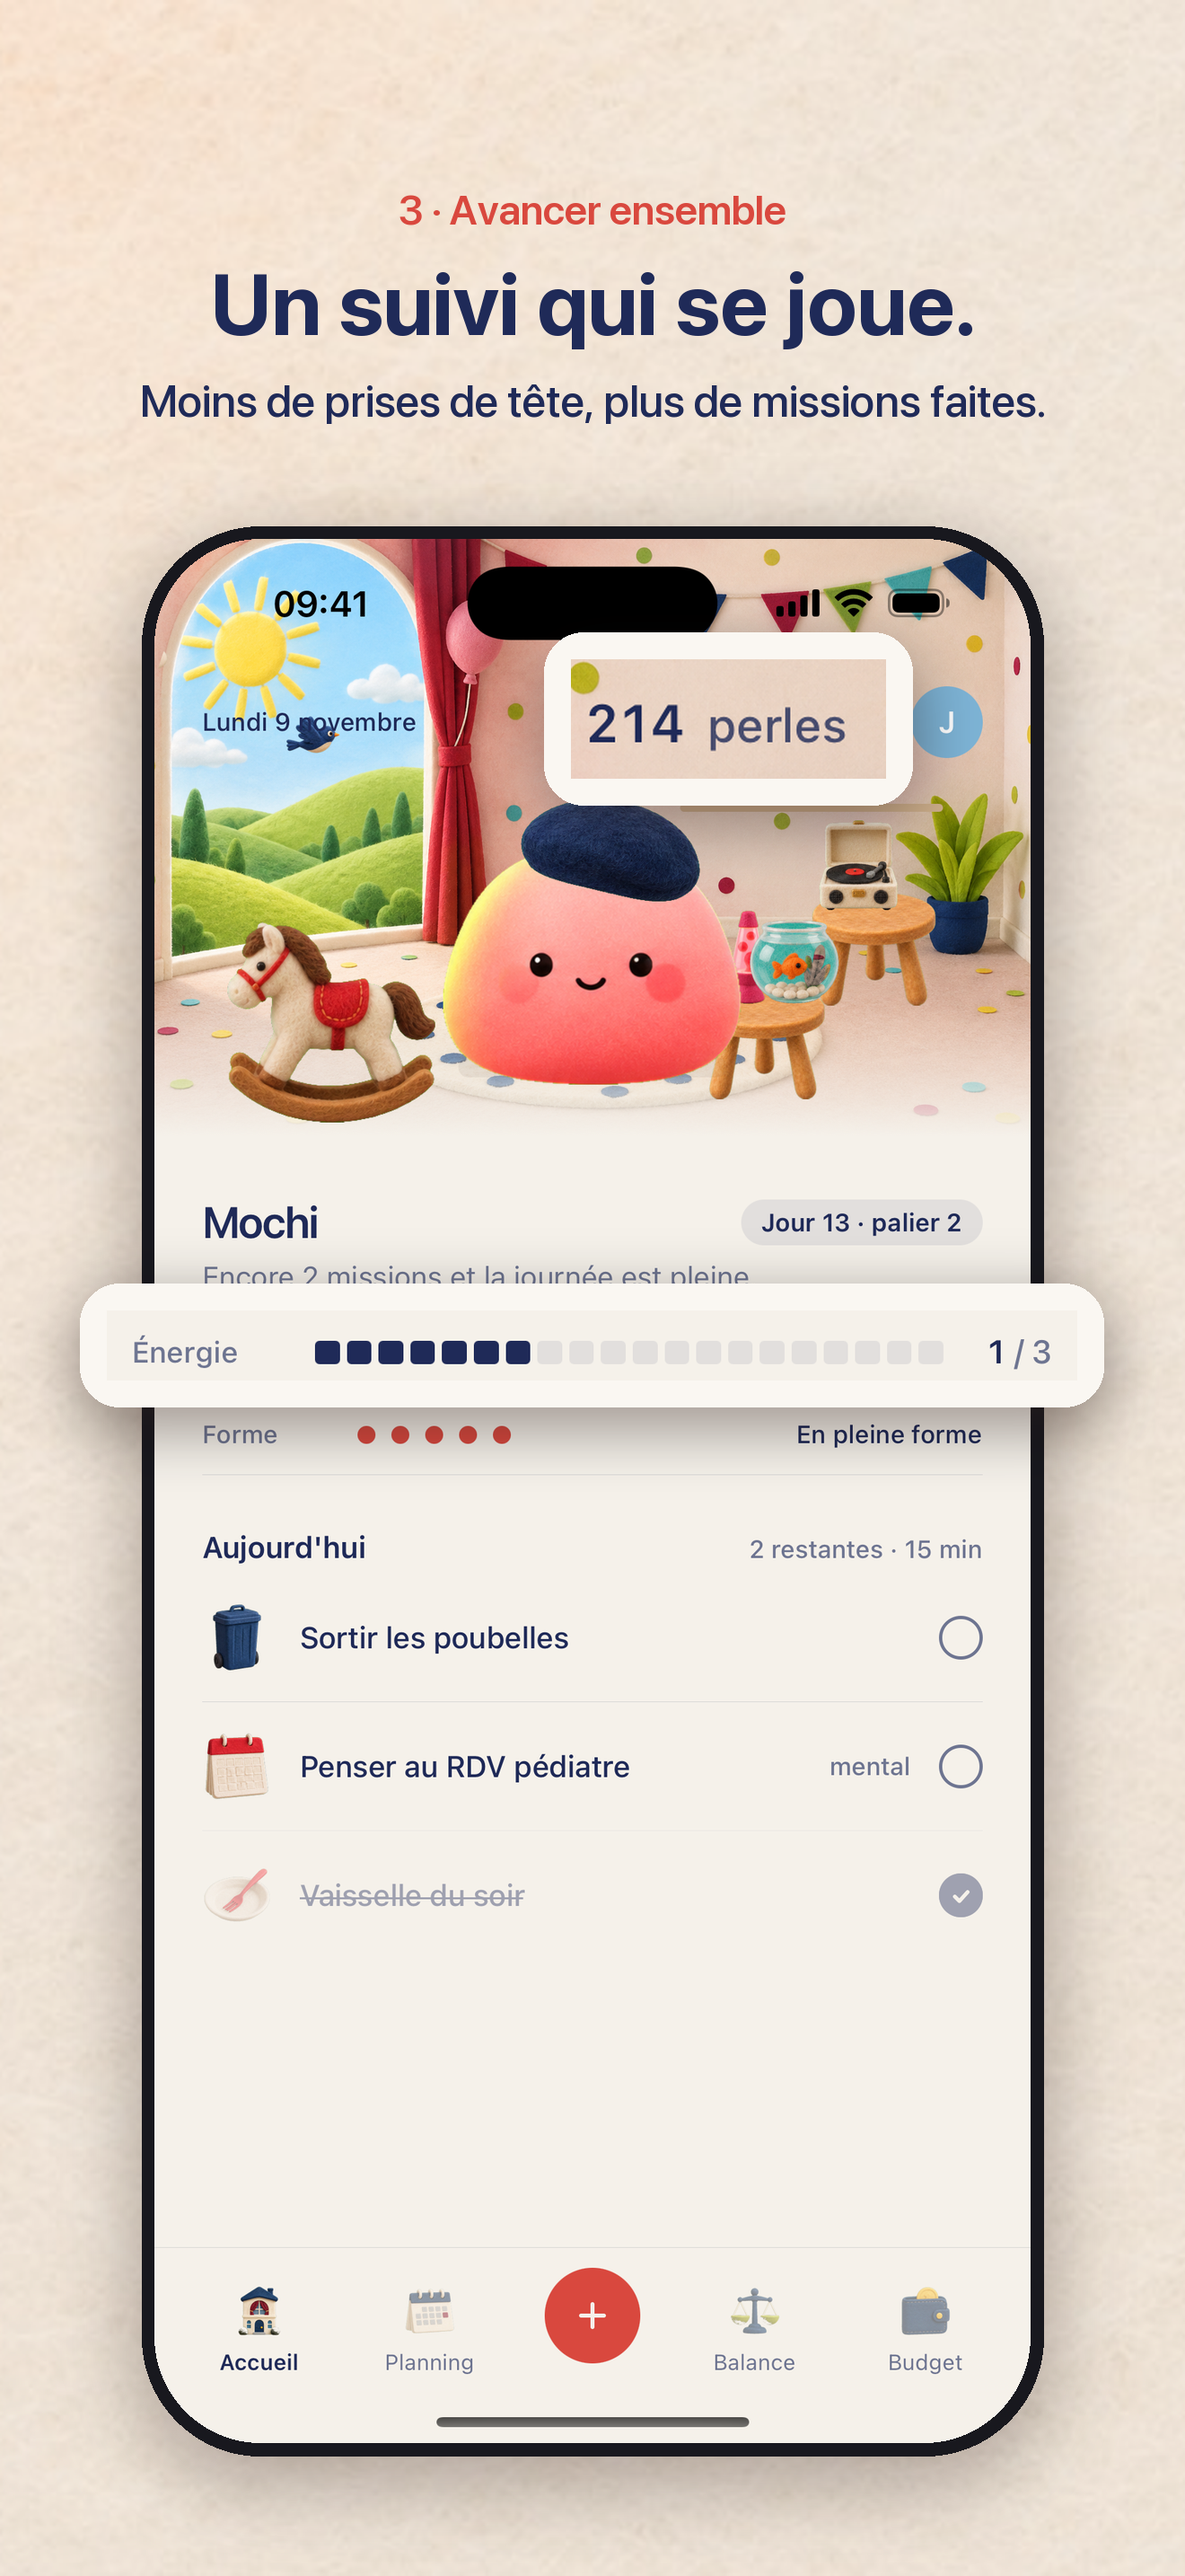
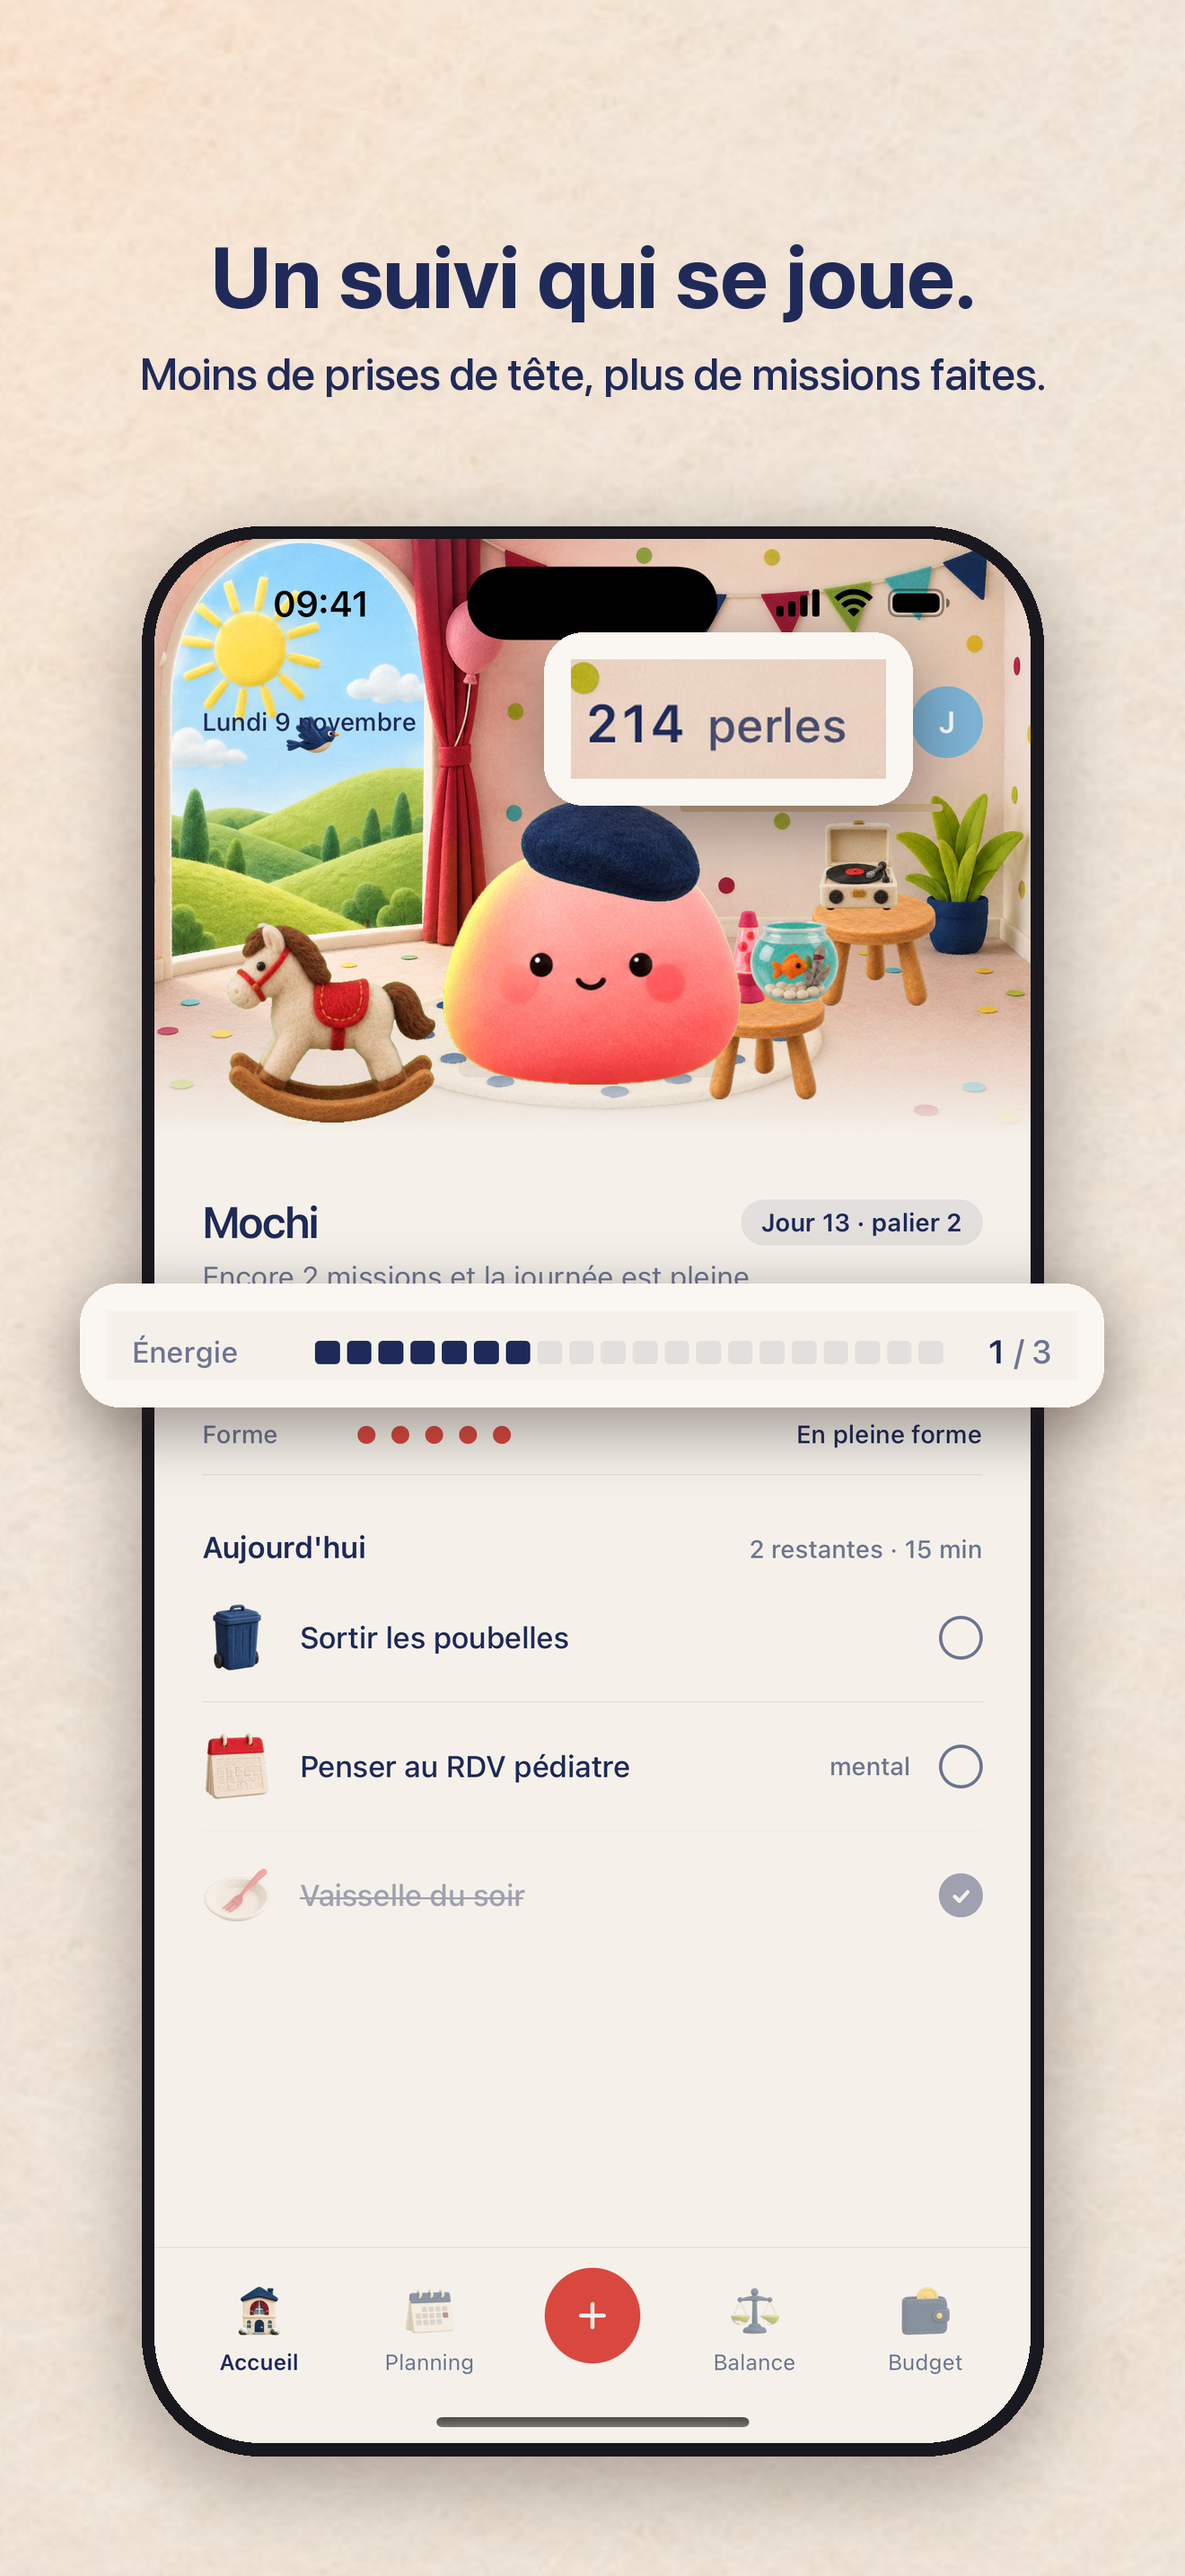
Captures App Store : repères numérotés retirés, les trois promesses restent dans les titres

Changed region(s): [[0.1242, 0.0621, 0.8697, 0.1862]]

diff --git a/scripts/store-ecrans-mockup.py b/scripts/store-ecrans-mockup.py
@@ -25,8 +25,8 @@ def screen(out,title,shot,pops,notif=None,kicker=None,sub=None):
     else:  # les trois piliers : repère numéroté, titre sur une ligne, bénéfice dessous
         if kicker:
             fk=font(46,'Semibold'); w=d.textlength(kicker,font=fk); d.text(((W-w)/2,205),kicker,font=fk,fill=(217,72,62))
-        f=font(TSZ,'Bold'); w=d.textlength(title[0],font=f); d.text(((W-w)/2,280),title[0],font=f,fill=INK)
-        fs=font(50,'Medium'); w=d.textlength(sub,font=fs); d.text(((W-w)/2,415),sub,font=fs,fill=INK+(175,))
+        f=font(TSZ,'Bold'); w=d.textlength(title[0],font=f); d.text(((W-w)/2,250),title[0],font=f,fill=INK)
+        fs=font(50,'Medium'); w=d.textlength(sub,font=fs); d.text(((W-w)/2,385),sub,font=fs,fill=INK+(175,))
     s=Image.open(B+shot).convert('RGBA'); sc=PW/s.width; PH=int(s.height*sc); s2=s.resize((PW,PH),Image.LANCZOS)
     PX=(W-PW)//2
     im=shadow(im,(PX-BZ,PY-BZ,PX+PW+BZ,PY+PH+BZ),R+BZ)
@@ -50,10 +50,10 @@ CARD=(250,247,242); NUIT=(46,33,64)
 _d=ImageDraw.Draw(Image.new('RGB',(1,1))); TSZ=96
 while max(_d.textlength(t,font=font(TSZ,'Bold')) for t in ['Préparez vos to-do à deux.', 'Partagées équitablement.', 'Un suivi qui se joue.', 'Mochi grandit avec vous.'])>W-150: TSZ-=2
 # screen('v5-02',['Souvent, une seule','personne y pense.'],'onb1.png',[((40,1822,1280,1938),1.16,NUIT)])
-screen('v6-03',['Pr\u00e9parez vos to-do \u00e0 deux.'],'taches.png',[((56,848,1264,1040),1.16,CARD),((56,1052,1264,1240),1.16,CARD)],kicker='1 \u00b7 Pr\u00e9parer ensemble',sub='Tout est list\u00e9 : moins de charge mentale.')
-screen('v6-04',['Partag\u00e9es \u00e9quitablement.'],'dispatch.png',[((60,872,1260,1144),1.32,CARD)],kicker='2 \u00b7 Diviser \u00e9quitablement',sub='Selon vos envies, vos besoins, vos dispos.')
-screen('v6-05',['Un suivi qui se joue.'],'accueil.png',[((40,1170,1280,1260),1.18,CARD),((740,225,990,320),1.9,CARD)],kicker='3 \u00b7 Avancer ensemble',sub='Moins de prises de t\u00eate, plus de missions faites.')
-screen('v6-06',['Mochi grandit avec vous.'],'chambre.png',[((1010,190,1270,300),1.9,CARD),((60,1300,1264,1515),1.16,CARD)],kicker='3 \u00b7 Avancer ensemble',sub='Chaque mission rapporte des perles pour sa pi\u00e8ce.')
+screen('v6-03',['Pr\u00e9parez vos to-do \u00e0 deux.'],'taches.png',[((56,848,1264,1040),1.16,CARD),((56,1052,1264,1240),1.16,CARD)],kicker=None,sub='Tout est list\u00e9 : moins de charge mentale.')
+screen('v6-04',['Partag\u00e9es \u00e9quitablement.'],'dispatch.png',[((60,872,1260,1144),1.32,CARD)],kicker=None,sub='Selon vos envies, vos besoins, vos dispos.')
+screen('v6-05',['Un suivi qui se joue.'],'accueil.png',[((40,1170,1280,1260),1.18,CARD),((740,225,990,320),1.9,CARD)],kicker=None,sub='Moins de prises de t\u00eate, plus de missions faites.')
+screen('v6-06',['Mochi grandit avec vous.'],'chambre.png',[((1010,190,1270,300),1.9,CARD),((60,1300,1264,1515),1.16,CARD)],kicker=None,sub='Chaque mission rapporte des perles pour sa pi\u00e8ce.')
 
 fs=['v6-01','v6-02','v6-03','v6-04','v6-05','v6-06']
 k=0.25; w,h=int(W*k),int(H*k); g=24
